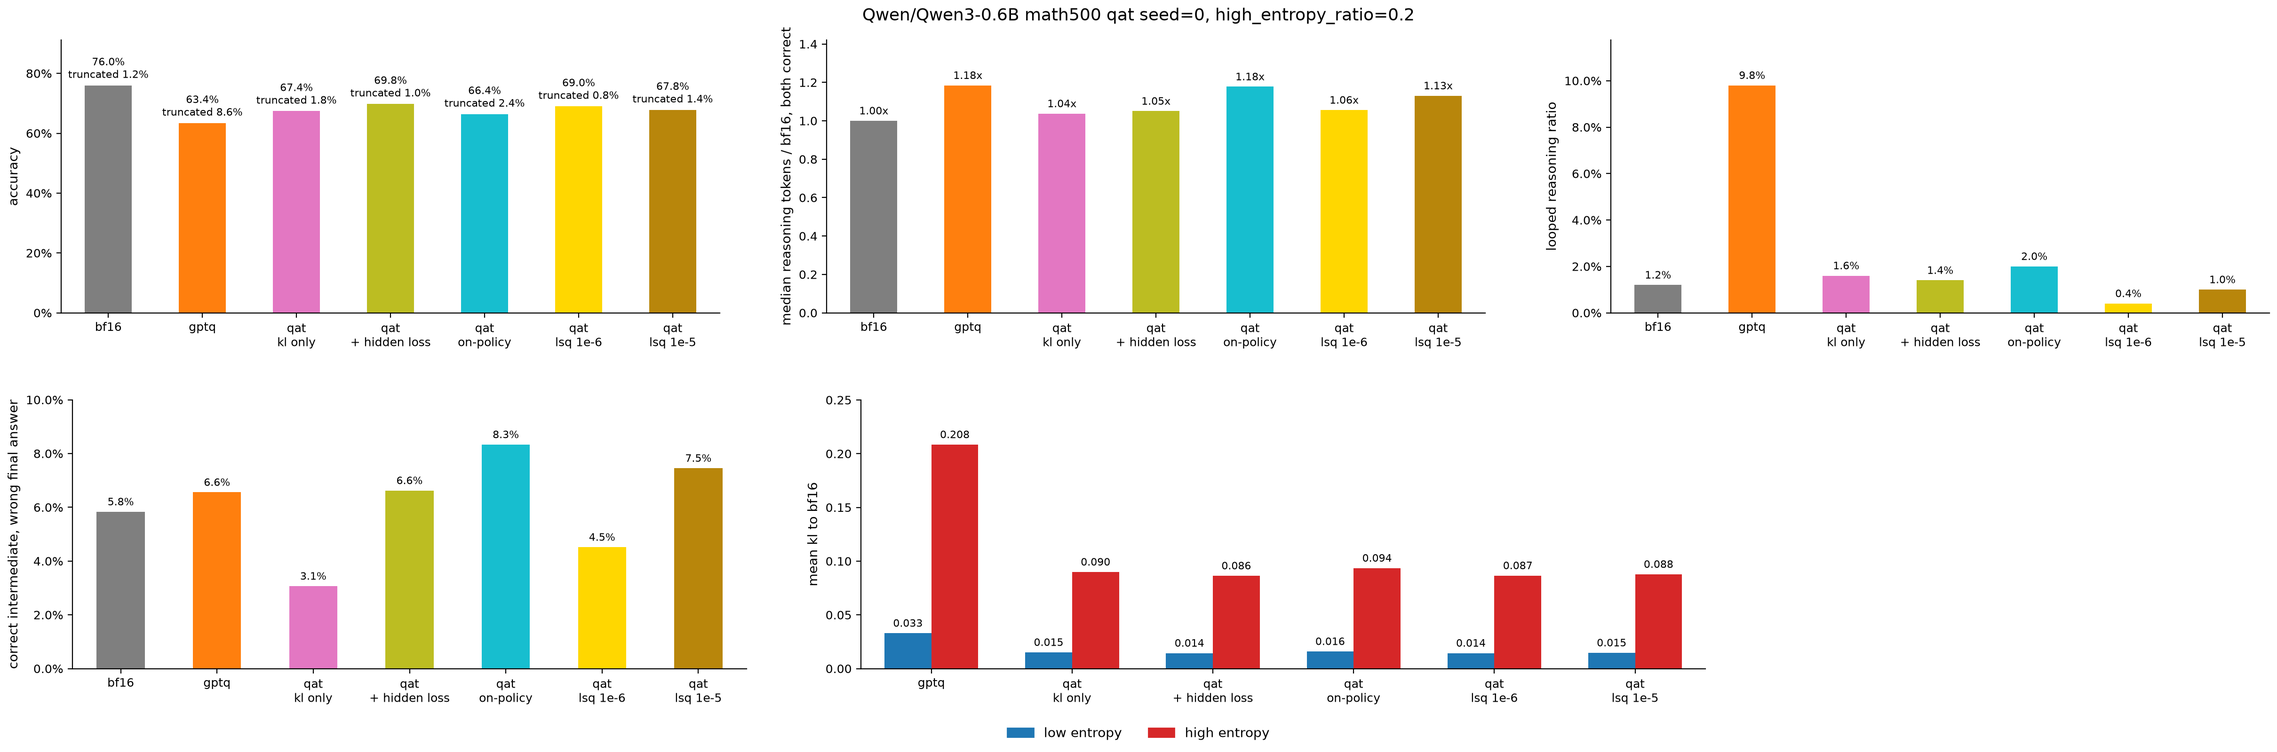
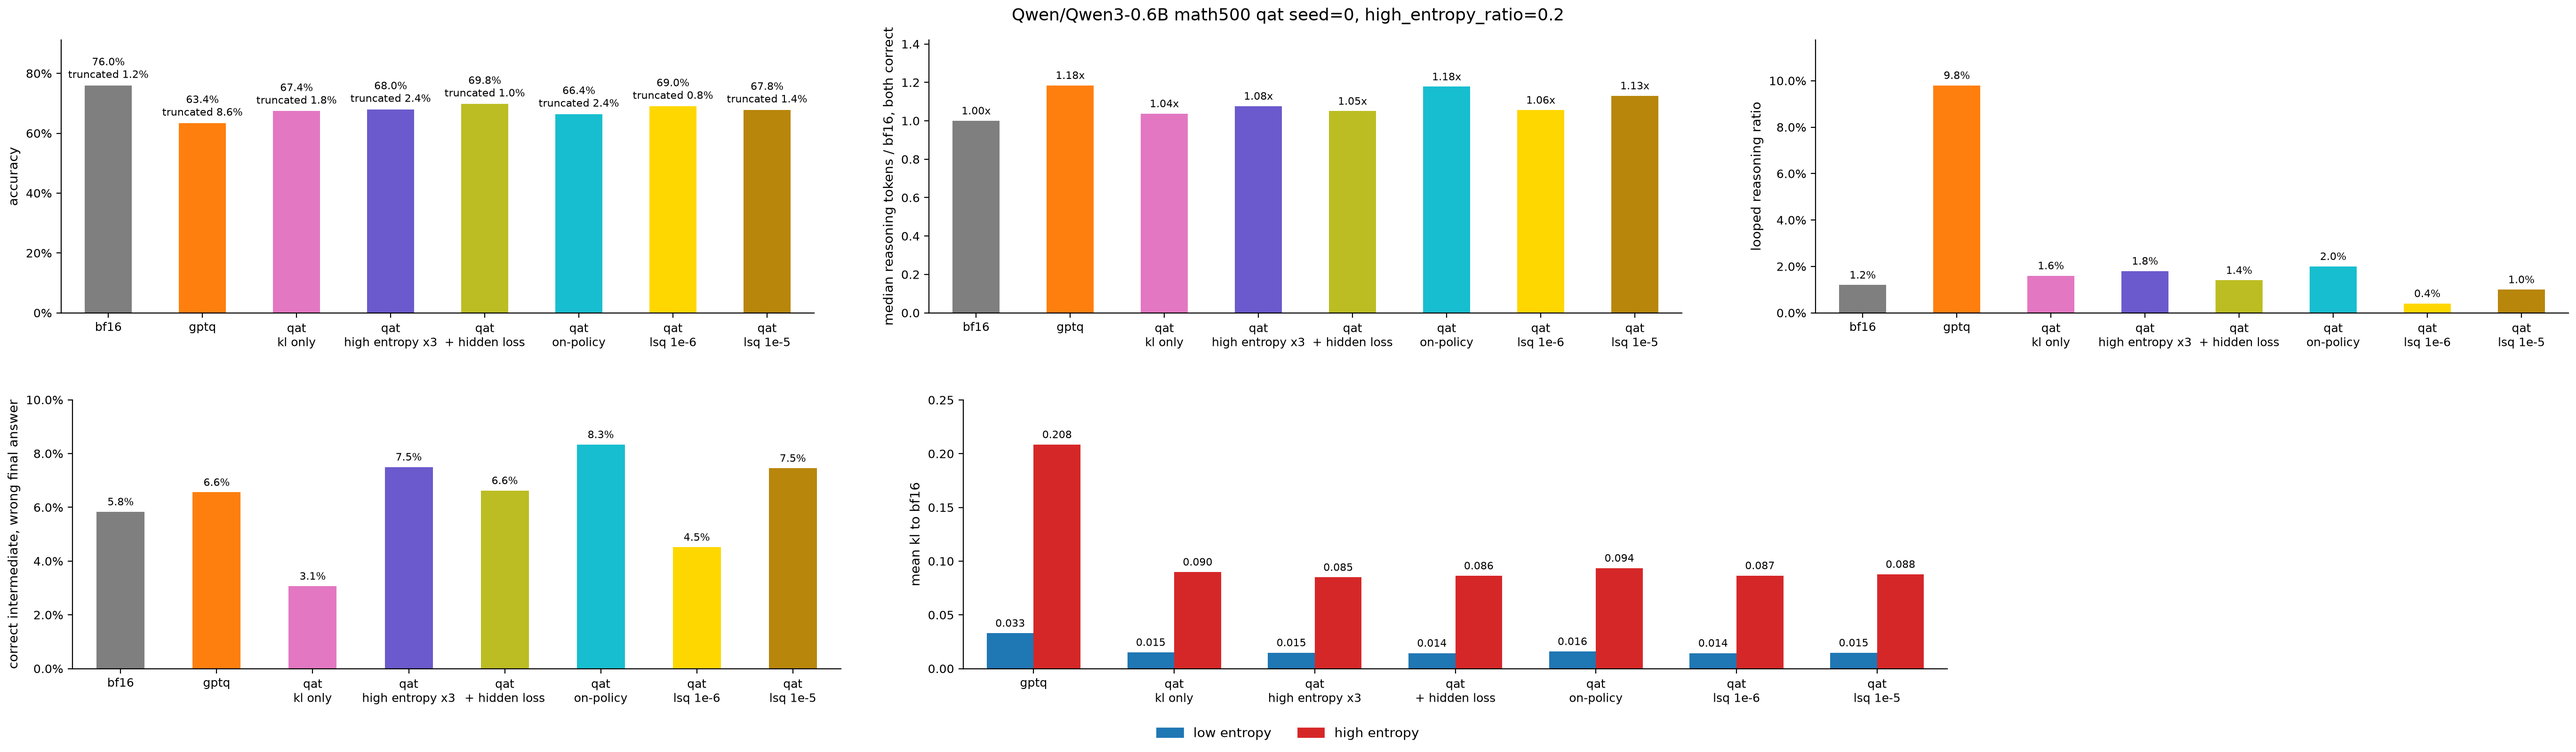
add high entropy weight to qat with legacy model

diff --git a/qat.py b/qat.py
@@ -35,6 +35,7 @@ class Config:
     num_train_samples: int = 2048
     loss: Literal["kl", "ce", "cakld"] = "kl"
     hidden_weight: float = 0.0
+    high_entropy_weight: float = 0.0
     on_policy: bool = False
     scale_learning_rate: float = 0.0
     lr: float = 1e-4
@@ -84,7 +85,7 @@ def get_kl_by_entropy(
     bf16_model: PreTrainedModel,
     samples: list[Tensor],
     high_entropy_ratio: float,
-) -> tuple[float, float]:
+) -> tuple[float, float, float]:
     entropies = []
     kls = []
     for input_ids in samples:
@@ -97,8 +98,9 @@ def get_kl_by_entropy(
         kls.append((bf16_probs * (bf16_logprobs - logprobs)).sum(dim=-1).cpu())
     entropy = torch.cat(entropies)
     kl = torch.cat(kls)
-    is_high = entropy > entropy.quantile(1 - high_entropy_ratio)
-    return kl[~is_high].mean().item(), kl[is_high].mean().item()
+    threshold = entropy.quantile(1 - high_entropy_ratio)
+    is_high = entropy > threshold
+    return kl[~is_high].mean().item(), kl[is_high].mean().item(), threshold.item()
 
 
 @torch.no_grad()
@@ -152,8 +154,9 @@ def main() -> None:
     if config.loss == "cakld":
         confidence = get_confidence(bf16_model, samples)
         print(f"confidence {confidence:.4f}")
-    low_kl, high_kl = get_kl_by_entropy(model, bf16_model, samples, config.high_entropy_ratio)
-    print(f"before training low entropy kl {low_kl:.4f} high entropy kl {high_kl:.4f}")
+    low_kl, high_kl, entropy_threshold = get_kl_by_entropy(model, bf16_model, samples, config.high_entropy_ratio)
+    print(f"before training low entropy kl {low_kl:.4f} high entropy kl {high_kl:.4f} entropy threshold {entropy_threshold:.4f}")
+    mean_weight = 1 + config.high_entropy_ratio * config.high_entropy_weight
     kls = []
     hidden_losses = []
     log_time = time.perf_counter()
@@ -174,6 +177,7 @@ def main() -> None:
                     bf16_logprobs = log_softmax(bf16_model.lm_head(bf16_hiddens).float(), dim=-1)
                     bf16_probs = bf16_logprobs.exp()
                     entropy = -(bf16_probs * bf16_logprobs).sum(dim=-1)
+                    weight = 1 + config.high_entropy_weight * (entropy > entropy_threshold)
                     bf16_hiddens = bf16_hiddens.float()
                 with torch.autocast("cuda", dtype=torch.bfloat16):
                     hiddens = model.model(input_ids=input_ids).last_hidden_state[0, :-1]
@@ -189,7 +193,7 @@ def main() -> None:
                     target_loss = kl
                 # hidden error to bf16 weighted by entropy (higher entropy, more weight)
                 hidden_loss = entropy * ((hiddens.float() - bf16_hiddens) ** 2).sum(dim=-1) / (bf16_hiddens**2).sum(dim=-1)
-                loss = (target_loss.sum() + config.hidden_weight * hidden_loss.sum()) / num_positions
+                loss = ((weight * target_loss).sum() / mean_weight + config.hidden_weight * hidden_loss.sum()) / num_positions
                 loss.backward()
                 batch_kl += kl.sum().item() / num_positions
                 batch_hidden_loss += hidden_loss.sum().item() / num_positions
@@ -206,7 +210,7 @@ def main() -> None:
                 log_time = time.perf_counter()
                 torch.cuda.reset_peak_memory_stats()
 
-    low_kl, high_kl = get_kl_by_entropy(model, bf16_model, samples, config.high_entropy_ratio)
+    low_kl, high_kl, _ = get_kl_by_entropy(model, bf16_model, samples, config.high_entropy_ratio)
     print(f"after training low entropy kl {low_kl:.4f} high entropy kl {high_kl:.4f}")
     if not config.save:
         return
@@ -216,7 +220,7 @@ def main() -> None:
             parent_name, child_name = name.rsplit(".", 1)
             setattr(model.model.layers.get_submodule(parent_name), child_name, module)
     model.to(torch.bfloat16)
-    save_quantized(make_qat_path(config.model_name, config.num_bits, config.group_size, config.qat_num_samples, config.loss, config.hidden_weight, config.on_policy, config.scale_learning_rate, config.lr_schedule, config.num_epochs), model)
+    save_quantized(make_qat_path(config.model_name, config.num_bits, config.group_size, config.qat_num_samples, config.loss, config.hidden_weight, config.on_policy, config.scale_learning_rate, config.lr_schedule, config.num_epochs, config.high_entropy_weight), model)
 
 
 if __name__ == "__main__":

diff --git a/plots/qat.py b/plots/qat.py
@@ -12,11 +12,12 @@ from primitives.paths import make_penalty_path, make_qat_path, make_target_path
 from primitives.plot import ENTROPY_COLORS, METHOD_COLORS, PANEL_MARGIN, fit_bar_width, get_figsize, get_intermediate_answer_ratio, get_length_ratio, get_loop_ratio, get_panel_width, plot_bars, save_figure
 
 QAT_VARIANTS = {
-    "qat\nkl only": (2048, "kl", 0.0, False, 0.0, "constant", 1, "tab:pink"),
-    "qat\n+ hidden loss": (2048, "kl", 1.0, False, 0.0, "constant", 1, "tab:olive"),
-    "qat\non-policy": (2048, "kl", 0.0, True, 0.0, "constant", 1, "tab:cyan"),
-    "qat\nlsq 1e-6": (2048, "kl", 0.0, False, 1e-06, "constant", 1, "gold"),
-    "qat\nlsq 1e-5": (2048, "kl", 0.0, False, 1e-05, "constant", 1, "darkgoldenrod"),
+    "qat\nkl only": (2048, "kl", 0.0, False, 0.0, "constant", 1, 0.0, "tab:pink"),
+    "qat\nhigh entropy x3": (2048, "kl", 0.0, False, 0.0, "constant", 1, 2.0, "slateblue"),
+    "qat\n+ hidden loss": (2048, "kl", 1.0, False, 0.0, "constant", 1, 0.0, "tab:olive"),
+    "qat\non-policy": (2048, "kl", 0.0, True, 0.0, "constant", 1, 0.0, "tab:cyan"),
+    "qat\nlsq 1e-6": (2048, "kl", 0.0, False, 1e-06, "constant", 1, 0.0, "gold"),
+    "qat\nlsq 1e-5": (2048, "kl", 0.0, False, 1e-05, "constant", 1, 0.0, "darkgoldenrod"),
 }
 
 
@@ -40,8 +41,8 @@ def plot_qat(
     targets = {method: make_target_path(method, config.model_name, config.num_bits, config.group_size, config.num_samples) for method in ["bf16", "gptq"]}
     for label, (penalty, _) in penalties.items():
         targets[label] = make_penalty_path(targets["gptq"], penalty)
-    for label, (qat_num_samples, loss, hidden_weight, on_policy, scale_learning_rate, lr_schedule, num_epochs, _) in variants.items():
-        targets[label] = make_qat_path(config.model_name, config.num_bits, config.group_size, qat_num_samples, loss, hidden_weight, on_policy, scale_learning_rate, lr_schedule, num_epochs)
+    for label, (qat_num_samples, loss, hidden_weight, on_policy, scale_learning_rate, lr_schedule, num_epochs, high_entropy_weight, _) in variants.items():
+        targets[label] = make_qat_path(config.model_name, config.num_bits, config.group_size, qat_num_samples, loss, hidden_weight, on_policy, scale_learning_rate, lr_schedule, num_epochs, high_entropy_weight)
     labels = list(targets)
     colors = [METHOD_COLORS["bf16"], METHOD_COLORS["gptq"]] + [color for _, color in penalties.values()] + [color for *_, color in variants.values()]
     results = {label: load_result("math500", target, file_name) for label, target in targets.items()}

diff --git a/plots/mmlu_redux.py b/plots/mmlu_redux.py
@@ -11,8 +11,8 @@ from primitives.paths import make_qat_path, make_target_path
 from primitives.plot import ENTROPY_COLORS, METHOD_COLORS, PANEL_MARGIN, fit_bar_width, get_figsize, get_length_ratio, get_loop_ratio, get_panel_width, plot_bars, save_figure
 
 QAT_VARIANTS = {
-    "3 epochs\n+ hidden loss": (2048, "kl", 1.0, False, 0.0, "cosine", 3, "tab:olive"),
-    "5 epochs\n+ hidden loss": (2048, "kl", 1.0, False, 0.0, "cosine", 5, "darkolivegreen"),
+    "3 epochs\n+ hidden loss": (2048, "kl", 1.0, False, 0.0, "cosine", 3, 0.0, "tab:olive"),
+    "5 epochs\n+ hidden loss": (2048, "kl", 1.0, False, 0.0, "cosine", 5, 0.0, "darkolivegreen"),
 }
 
 
@@ -30,8 +30,8 @@ def main() -> None:
     config = parse(Config)
     file_name = f"seed={config.seed}"
     targets = {method: make_target_path(method, config.model_name, config.num_bits, config.group_size, config.num_samples) for method in ["bf16", "gptq"]}
-    for label, (qat_num_samples, loss, hidden_weight, on_policy, scale_learning_rate, lr_schedule, num_epochs, _) in QAT_VARIANTS.items():
-        targets[label] = make_qat_path(config.model_name, config.num_bits, config.group_size, qat_num_samples, loss, hidden_weight, on_policy, scale_learning_rate, lr_schedule, num_epochs)
+    for label, (qat_num_samples, loss, hidden_weight, on_policy, scale_learning_rate, lr_schedule, num_epochs, high_entropy_weight, _) in QAT_VARIANTS.items():
+        targets[label] = make_qat_path(config.model_name, config.num_bits, config.group_size, qat_num_samples, loss, hidden_weight, on_policy, scale_learning_rate, lr_schedule, num_epochs, high_entropy_weight)
     labels = list(targets)
     colors = [METHOD_COLORS["bf16"], METHOD_COLORS["gptq"]] + [color for *_, color in QAT_VARIANTS.values()]
     results = {label: load_result("mmlu_redux", target, file_name) for label, target in targets.items()}

diff --git a/teacher_forcing.py b/teacher_forcing.py
@@ -26,6 +26,7 @@ class Config:
     qat_num_samples: int = 2048
     loss: Literal["kl", "ce", "cakld"] = "kl"
     hidden_weight: float = 0.0
+    high_entropy_weight: float = 0.0
     on_policy: bool = False
     scale_learning_rate: float = 0.0
     lr_schedule: Literal["constant", "cosine"] = "constant"
@@ -50,7 +51,7 @@ def main() -> None:
     file_name = f"seed={config.seed}"
     entry_name = "teacher_forcing" if config.dataset == "math500" else f"teacher_forcing_{config.dataset}"
     if config.method == "qat":
-        quantized_path = make_qat_path(config.model_name, config.num_bits, config.group_size, config.qat_num_samples, config.loss, config.hidden_weight, config.on_policy, config.scale_learning_rate, config.lr_schedule, config.num_epochs)
+        quantized_path = make_qat_path(config.model_name, config.num_bits, config.group_size, config.qat_num_samples, config.loss, config.hidden_weight, config.on_policy, config.scale_learning_rate, config.lr_schedule, config.num_epochs, config.high_entropy_weight)
     else:
         quantized_path = make_quantized_path(config.method, config.model_name, config.num_bits, config.group_size, config.num_samples)
     if result_exists(entry_name, quantized_path, file_name, "safetensors"):

diff --git a/mmlu_redux.py b/mmlu_redux.py
@@ -23,6 +23,7 @@ class Config:
     qat_num_samples: int = 2048
     loss: Literal["kl", "ce", "cakld"] = "kl"
     hidden_weight: float = 0.0
+    high_entropy_weight: float = 0.0
     on_policy: bool = False
     scale_learning_rate: float = 0.0
     lr_schedule: Literal["constant", "cosine"] = "constant"
@@ -38,7 +39,7 @@ def main() -> None:
     config = parse(Config)
     file_name = f"seed={config.seed}"
     if config.method == "qat":
-        target = make_qat_path(config.model_name, config.num_bits, config.group_size, config.qat_num_samples, config.loss, config.hidden_weight, config.on_policy, config.scale_learning_rate, config.lr_schedule, config.num_epochs)
+        target = make_qat_path(config.model_name, config.num_bits, config.group_size, config.qat_num_samples, config.loss, config.hidden_weight, config.on_policy, config.scale_learning_rate, config.lr_schedule, config.num_epochs, config.high_entropy_weight)
     else:
         target = make_target_path(config.method, config.model_name, config.num_bits, config.group_size, config.num_samples)
     if result_exists("mmlu_redux", target, file_name):

diff --git a/math500.py b/math500.py
@@ -23,6 +23,7 @@ class Config:
     qat_num_samples: int = 2048
     loss: Literal["kl", "ce", "cakld"] = "kl"
     hidden_weight: float = 0.0
+    high_entropy_weight: float = 0.0
     on_policy: bool = False
     scale_learning_rate: float = 0.0
     lr_schedule: Literal["constant", "cosine"] = "constant"
@@ -35,7 +36,7 @@ def main() -> None:
     config = parse(Config)
     file_name = f"seed={config.seed}"
     if config.method == "qat":
-        target = make_qat_path(config.model_name, config.num_bits, config.group_size, config.qat_num_samples, config.loss, config.hidden_weight, config.on_policy, config.scale_learning_rate, config.lr_schedule, config.num_epochs)
+        target = make_qat_path(config.model_name, config.num_bits, config.group_size, config.qat_num_samples, config.loss, config.hidden_weight, config.on_policy, config.scale_learning_rate, config.lr_schedule, config.num_epochs, config.high_entropy_weight)
     else:
         target = make_target_path(config.method, config.model_name, config.num_bits, config.group_size, config.num_samples)
     if result_exists("math500", target, file_name):

diff --git a/plots/qat_schedule.py b/plots/qat_schedule.py
@@ -3,11 +3,11 @@ from simple_parsing import parse
 from plots.qat import Config, plot_qat
 
 SCHEDULE_VARIANTS = {
-    "constant\n1 epoch": (2048, "kl", 0.0, False, 0.0, "constant", 1, "tab:pink"),
-    "cosine\n1 epoch": (2048, "kl", 0.0, False, 0.0, "cosine", 1, "orchid"),
-    "cosine\n3 epochs": (2048, "kl", 0.0, False, 0.0, "cosine", 3, "darkmagenta"),
-    "3 epochs\n+ hidden loss": (2048, "kl", 1.0, False, 0.0, "cosine", 3, "tab:olive"),
-    "5 epochs\n+ hidden loss": (2048, "kl", 1.0, False, 0.0, "cosine", 5, "darkolivegreen"),
+    "constant\n1 epoch": (2048, "kl", 0.0, False, 0.0, "constant", 1, 0.0, "tab:pink"),
+    "cosine\n1 epoch": (2048, "kl", 0.0, False, 0.0, "cosine", 1, 0.0, "orchid"),
+    "cosine\n3 epochs": (2048, "kl", 0.0, False, 0.0, "cosine", 3, 0.0, "darkmagenta"),
+    "3 epochs\n+ hidden loss": (2048, "kl", 1.0, False, 0.0, "cosine", 3, 0.0, "tab:olive"),
+    "5 epochs\n+ hidden loss": (2048, "kl", 1.0, False, 0.0, "cosine", 5, 0.0, "darkolivegreen"),
 }
 
 

diff --git a/primitives/paths.py b/primitives/paths.py
@@ -48,8 +48,12 @@ def make_qat_path(
     scale_learning_rate: float,
     lr_schedule: str,
     num_epochs: int,
+    high_entropy_weight: float,
 ) -> str:
-    return f"qat/{model_name}/num_bits={num_bits},group_size={group_size},qat_num_samples={qat_num_samples},loss={loss},hidden_weight={hidden_weight},on_policy={on_policy},scale_learning_rate={scale_learning_rate},lr_schedule={lr_schedule},num_epochs={num_epochs}"
+    path = f"qat/{model_name}/num_bits={num_bits},group_size={group_size},qat_num_samples={qat_num_samples},loss={loss},hidden_weight={hidden_weight},on_policy={on_policy},scale_learning_rate={scale_learning_rate},lr_schedule={lr_schedule},num_epochs={num_epochs}"
+    if high_entropy_weight != 0.0:
+        path += f",high_entropy_weight={high_entropy_weight}"
+    return path
 
 
 def make_penalty_path(

diff --git a/plots/baselines.py b/plots/baselines.py
@@ -7,10 +7,10 @@ PENALTIES = {
     "gptq\n+ penalty 2.0": (2.0, "chocolate"),
 }
 LOSS_VARIANTS = {
-    "qat\nkl": (2048, "kl", 0.0, False, 0.0, "cosine", 3, "darkmagenta"),
-    "qat\nce": (2048, "ce", 0.0, False, 0.0, "cosine", 3, "teal"),
-    "qat\ncakld": (2048, "cakld", 0.0, False, 0.0, "cosine", 3, "darkkhaki"),
-    "qat\n+ hidden loss": (2048, "kl", 1.0, False, 0.0, "cosine", 3, "tab:olive"),
+    "qat\nkl": (2048, "kl", 0.0, False, 0.0, "cosine", 3, 0.0, "darkmagenta"),
+    "qat\nce": (2048, "ce", 0.0, False, 0.0, "cosine", 3, 0.0, "teal"),
+    "qat\ncakld": (2048, "cakld", 0.0, False, 0.0, "cosine", 3, 0.0, "darkkhaki"),
+    "qat\n+ hidden loss": (2048, "kl", 1.0, False, 0.0, "cosine", 3, 0.0, "tab:olive"),
 }
 
 
